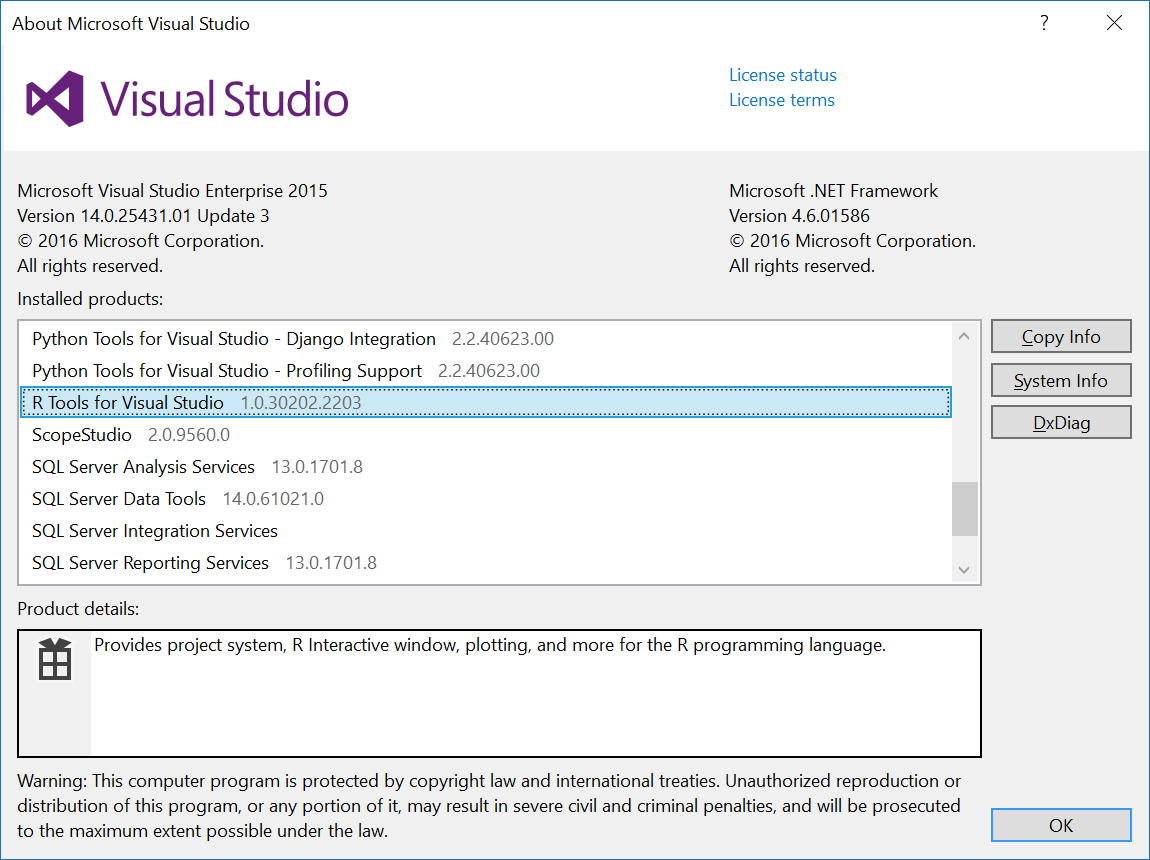
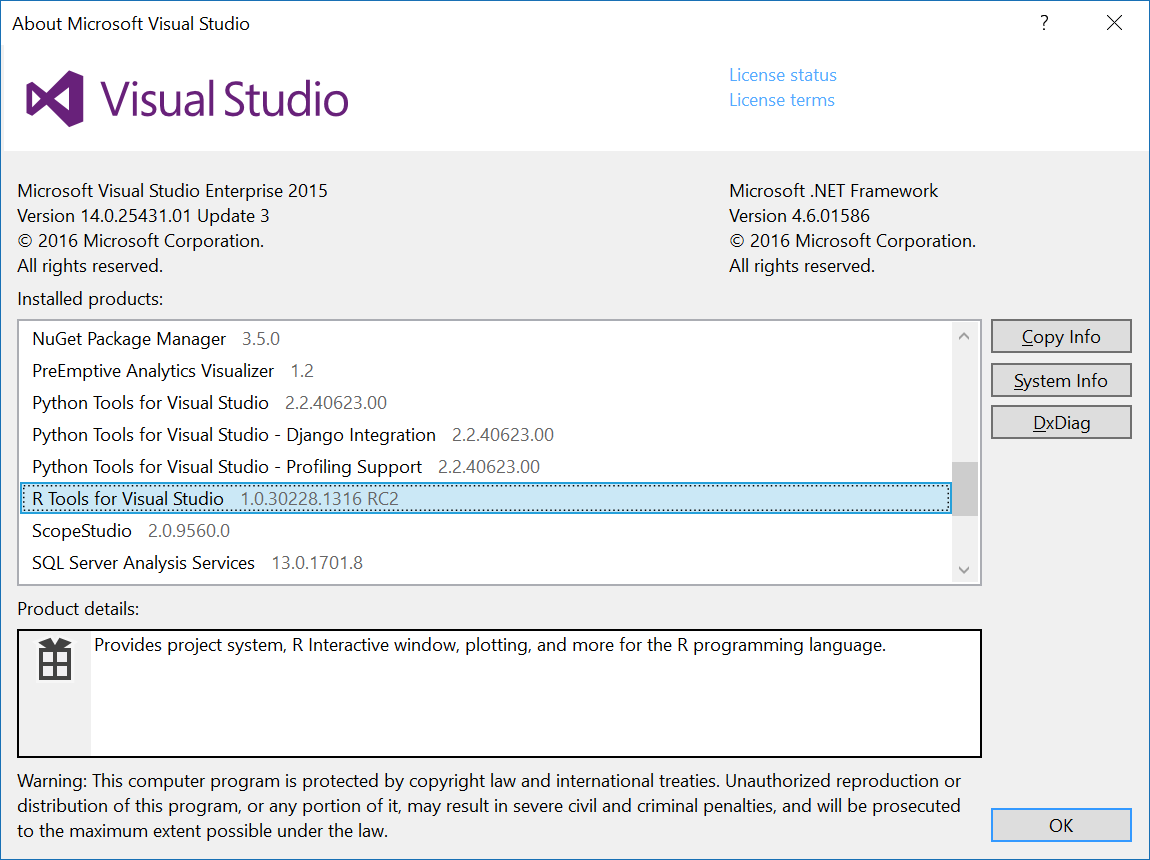
Update current version to RC2 build

Changed region(s): [[0.0, 0.3628, 0.8522, 0.6651], [0.6391, 0.0605, 0.7304, 0.1209]]

diff --git a/checkforupdate.md b/checkforupdate.md
@@ -6,7 +6,7 @@ layout: default
 
 The latest version of RTVS is:
 
-## 1.0.30202.2203  (Recommended)
+## 1.0.30228.1316 RC2  (Recommended)
 
 This is the 1.0 Release Candidate version of RTVS, which is available from
 [here](https://aka.ms/rtvs-current).
